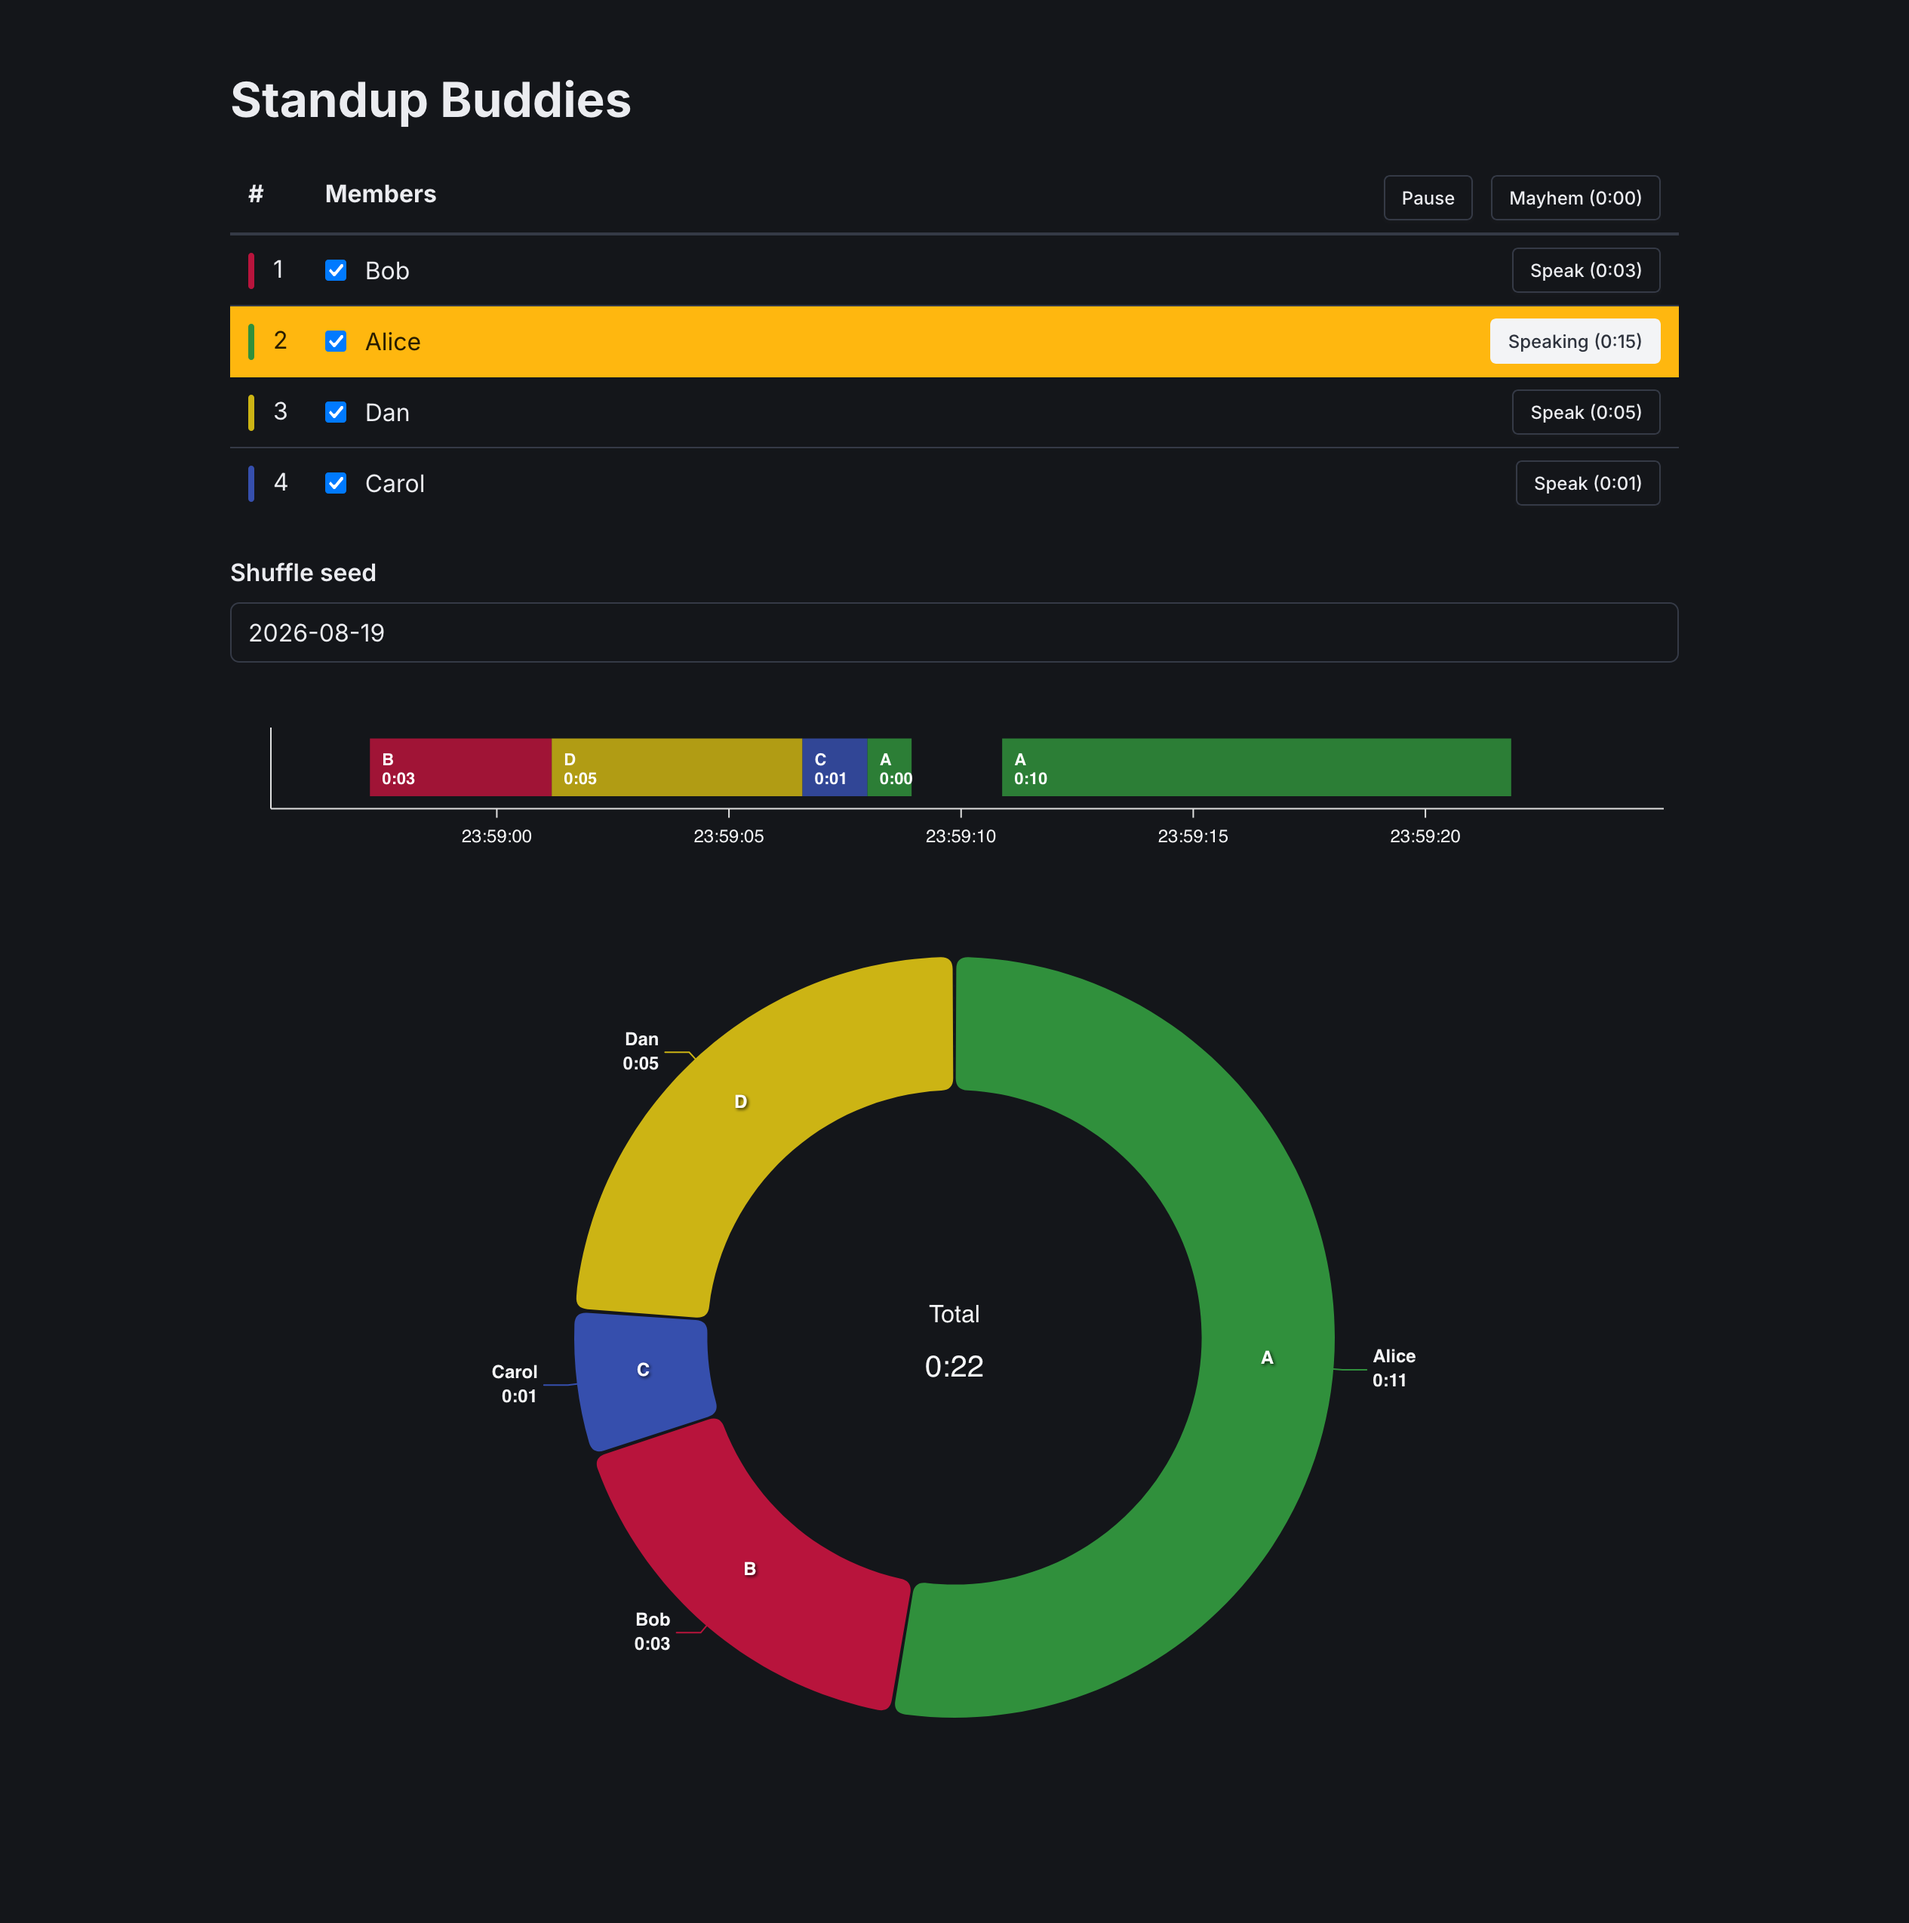
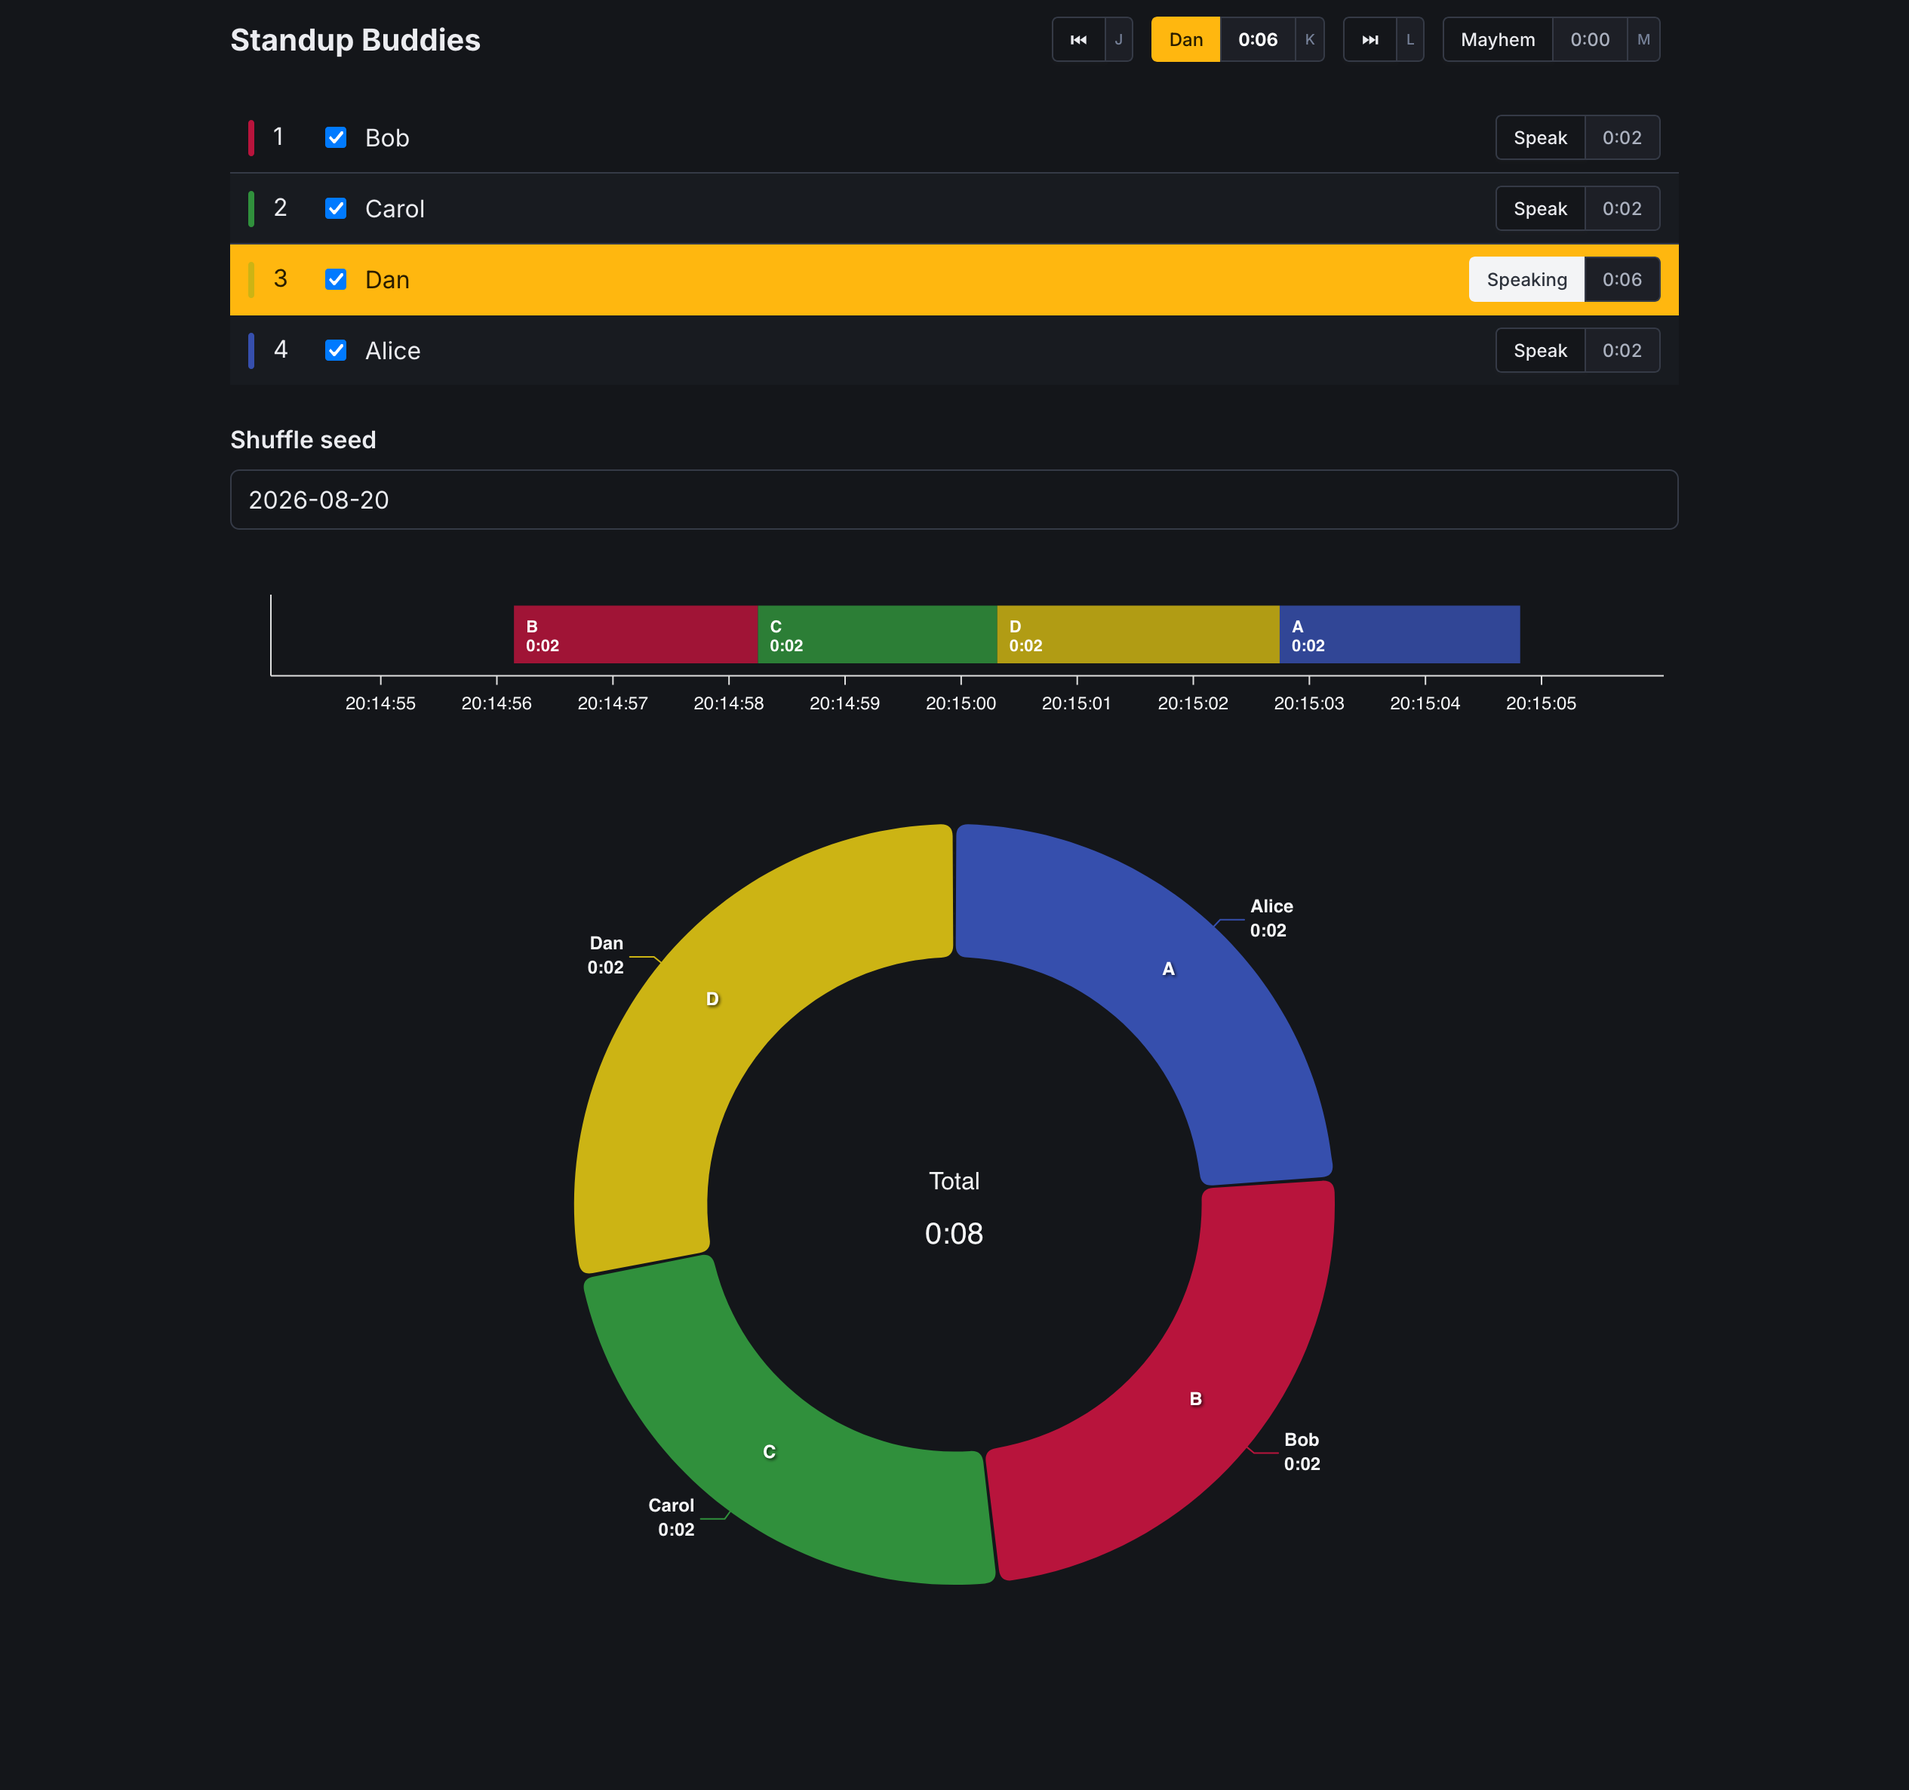
v1.1.0

diff --git a/CHANGELOG.md b/CHANGELOG.md
@@ -1,0 +1,14 @@
+# Changelog
+
+## v1.1.0 (2026-08-20)
+
+1. Meeting controls moved into a navbar fixed to the top of the page; the table header is gone.
+1. The last speaker is now tracked across pauses and mayhems, highlighted in the roster, and shown as the navbar pause/resume button with their running time.
+1. Previous/next speaker buttons that skip absent members; advancing past the last speaker pauses the meeting.
+1. Keyboard shortcuts: J (previous), K (pause/resume), L (next), M (mayhem), with key hints visible on the buttons.
+1. The active speaker's row is automatically scrolled into view when off-screen.
+1. All durations render as addons attached to their buttons, with tabular digits so they don't wobble while ticking.
+
+## v1.0.0 (2026-08-19)
+
+Initial release: team roster from `config.js`, presence checkboxes, seeded daily shuffle with pinned members, per-speaker timers, mayhem mode, and meeting charts.
